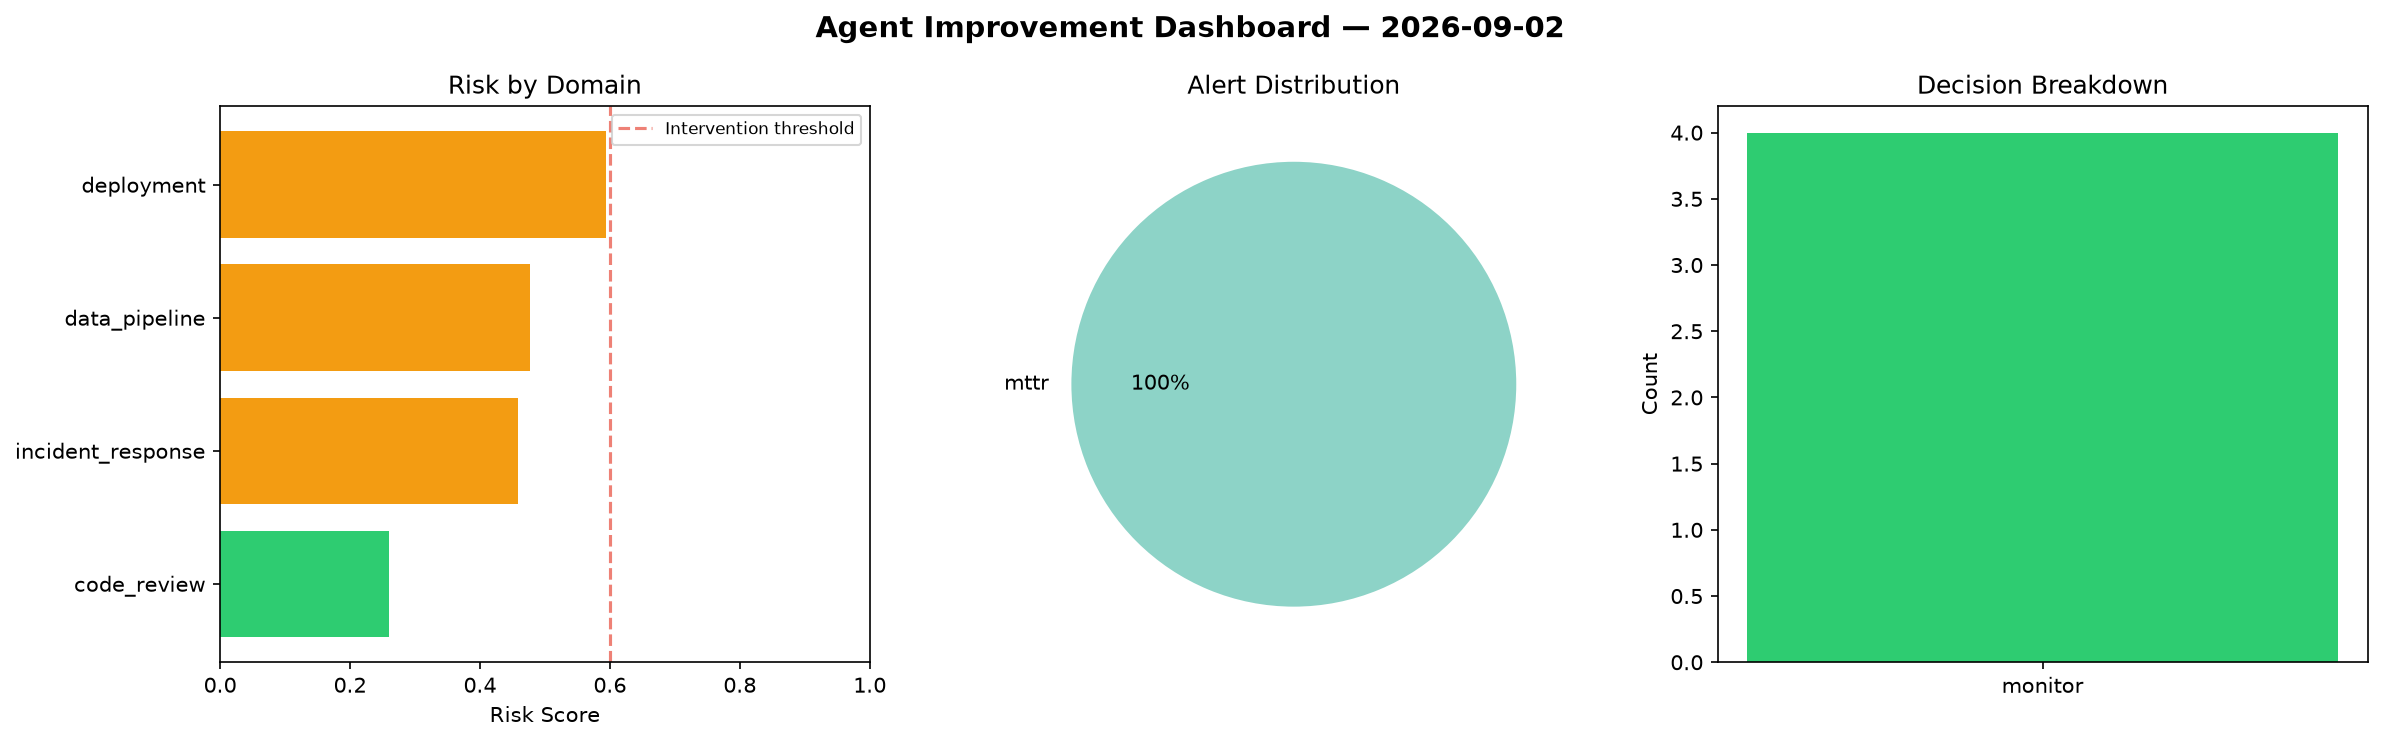
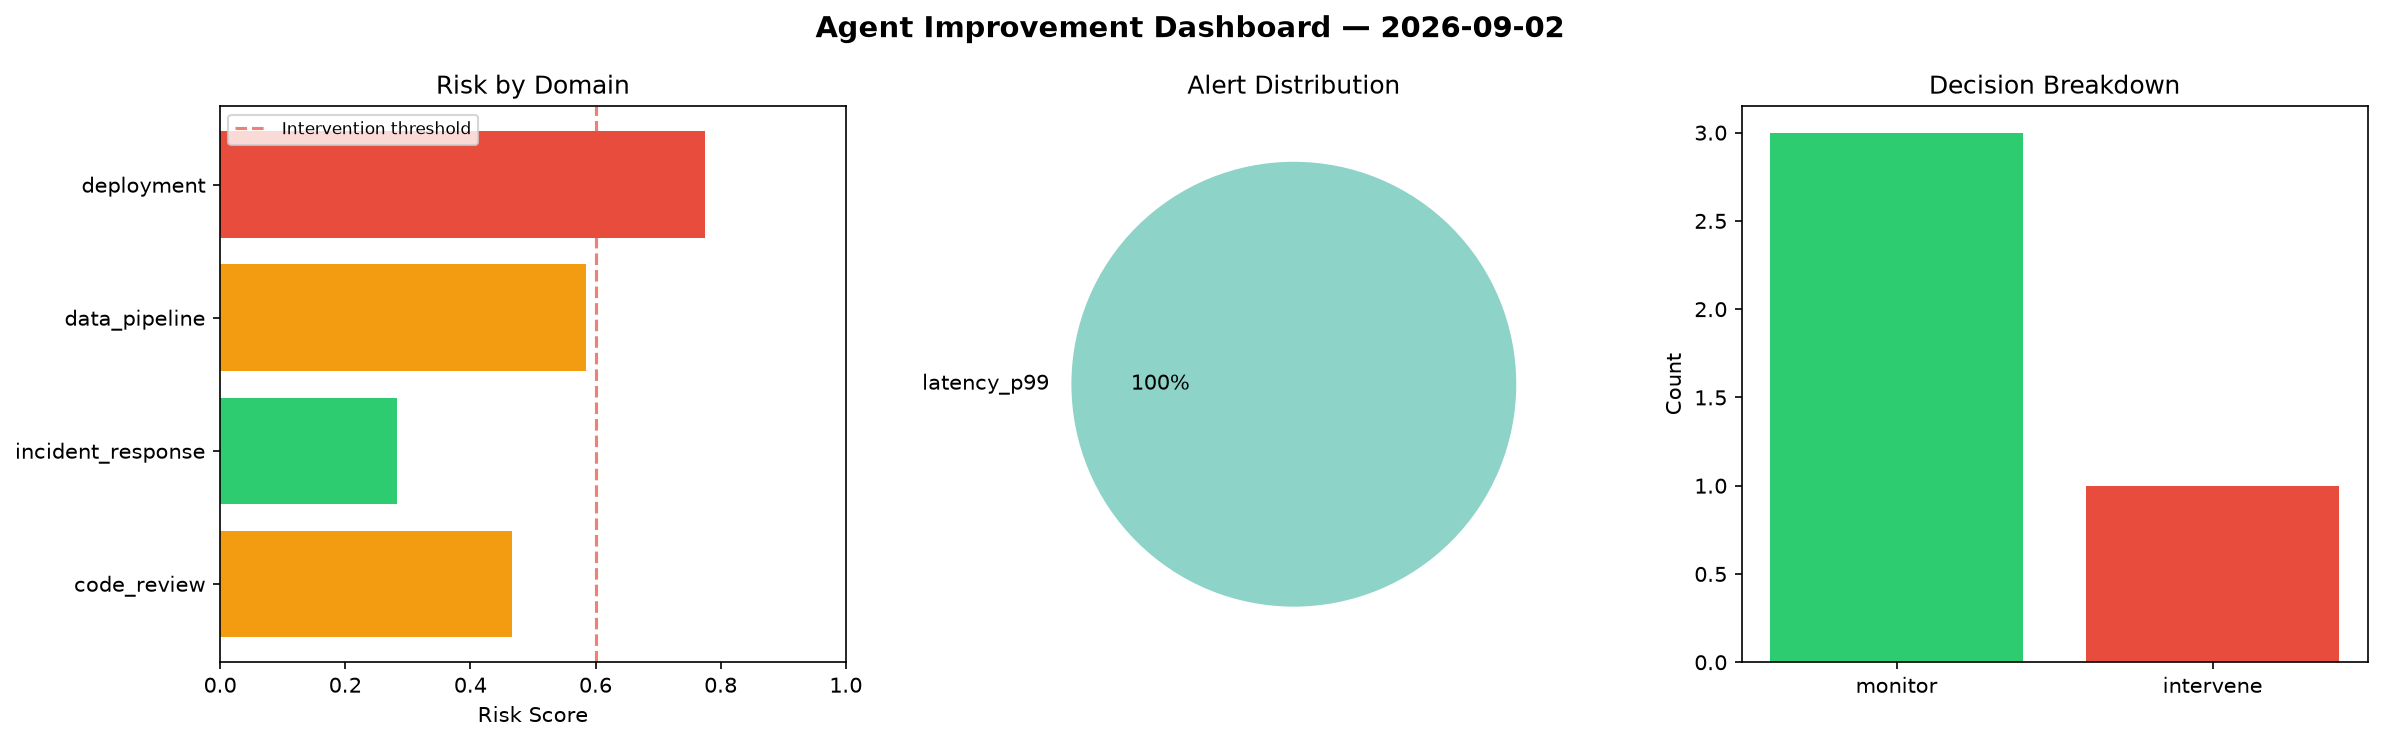
agent-improvement: daily cycle 2026-09-02T12:46

diff --git a/logs/2026-09-02.md b/logs/2026-09-02.md
@@ -1,6 +1,6 @@
 # Agent Improvement Report — 2026-09-02
 
-**Cycle ID:** `57cbcf30` | **Avg Risk:** 0.4472 | **Interventions:** 0/4
+**Cycle ID:** `0dc90677` | **Avg Risk:** 0.5272 | **Interventions:** 1/4
 
 ![Dashboard](2026-09-02_dashboard.png)
 
@@ -10,18 +10,18 @@
 
 | Domain | Risk Score | Decision | Alerts |
 |--------|-----------|----------|--------|
-| code_review | 0.2598 | monitor | none |
-| incident_response | 0.4578 | monitor | mttr |
-| data_pipeline | 0.4771 | monitor | none |
-| deployment | 0.5939 | monitor | none |
+| code_review | 0.4662 | monitor | none |
+| incident_response | 0.2831 | monitor | none |
+| data_pipeline | 0.5848 | monitor | none |
+| deployment | 0.7749 | intervene | latency_p99 |
 
 ## Delta vs Yesterday
 
 | Domain | Today | Yesterday | Change |
 |--------|-------|-----------|--------|
-| code_review | 0.2598 | 0.7192 | 📉 -63.9% |
-| incident_response | 0.4578 | 0.4499 | 📈 1.8% |
-| data_pipeline | 0.4771 | 0.4372 | 📈 9.1% |
-| deployment | 0.5939 | 0.7383 | 📉 -19.6% |
+| code_review | 0.4662 | 0.7192 | 📉 -35.2% |
+| incident_response | 0.2831 | 0.4499 | 📉 -37.1% |
+| data_pipeline | 0.5848 | 0.4372 | 📈 33.8% |
+| deployment | 0.7749 | 0.7383 | 📈 5.0% |
 
 **Refinement:** `{'adjustment': 'tighten_thresholds', 'trend': 'degrading', 'window': 4}`
